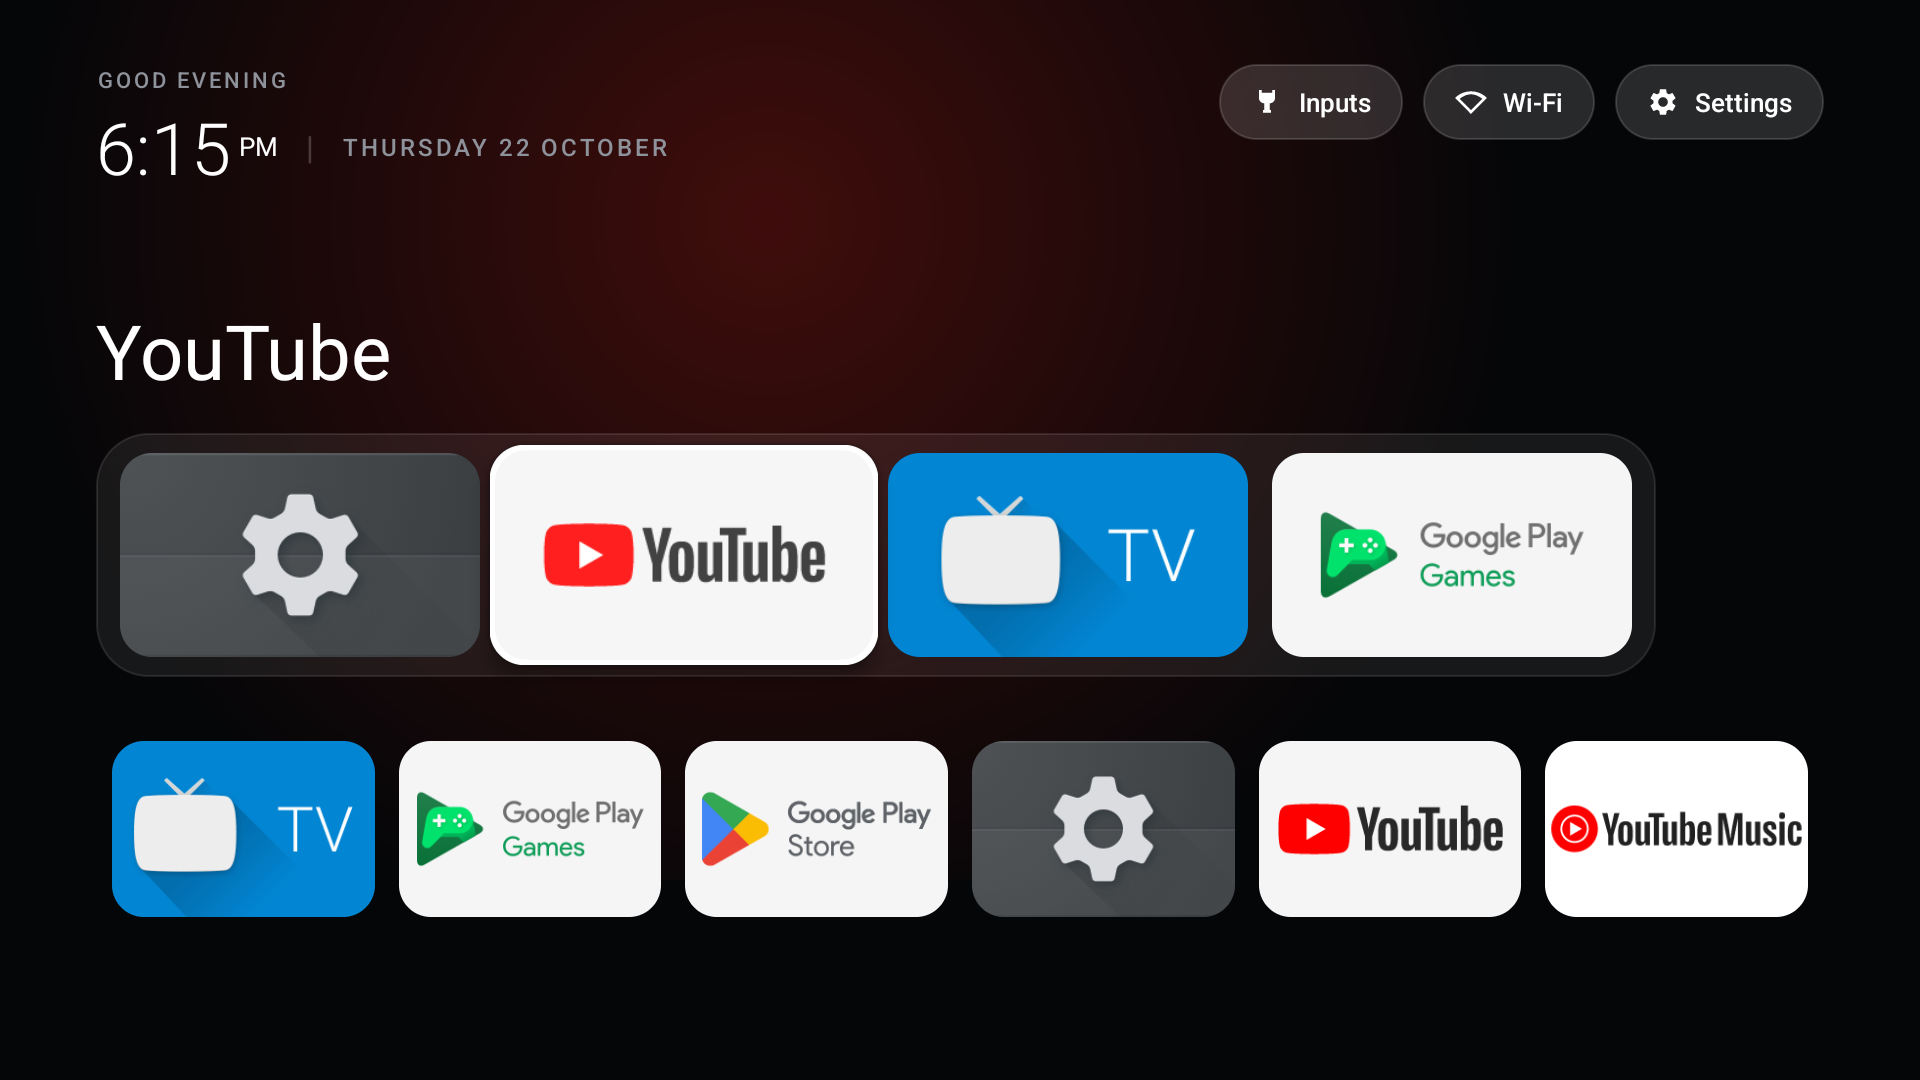
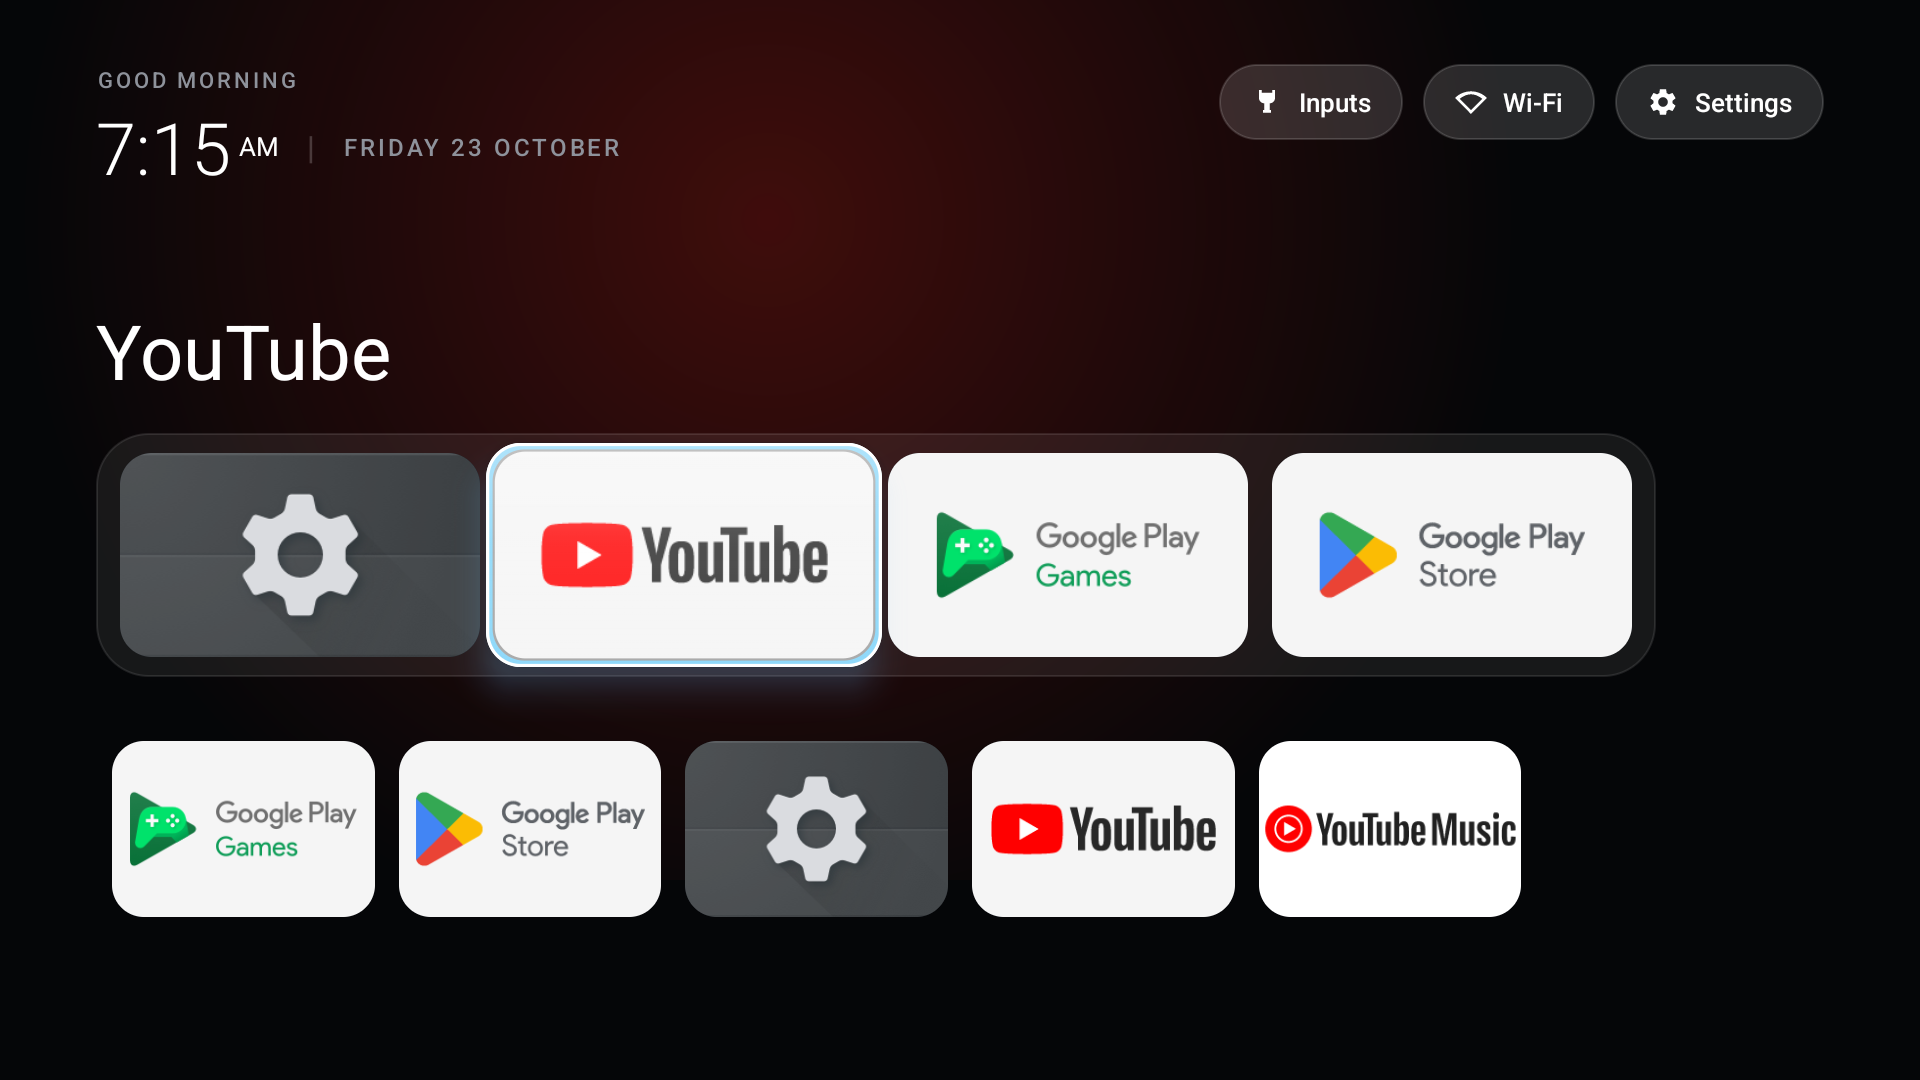
feat(ui): implement multi-layer floating glass highlight and spring focus physics (v0.2.1)

diff --git a/galvis/app/src/main/java/com/galvis/launcher/ui/FocusScaleHelper.kt b/galvis/app/src/main/java/com/galvis/launcher/ui/FocusScaleHelper.kt
@@ -1,17 +1,21 @@
 package com.galvis.launcher.ui
 
+import android.graphics.Color
+import android.os.Build
 import android.view.View
 import android.view.animation.DecelerateInterpolator
+import android.view.animation.OvershootInterpolator
 
 object FocusScaleHelper {
 
-    private val interpolator = DecelerateInterpolator(1.5f)
-    private const val ANIMATION_DURATION_MS = 140L
-    private const val FOCUSED_SCALE = 1.08f
+    private val springInterpolator = OvershootInterpolator(1.35f)
+    private val exitInterpolator = DecelerateInterpolator(1.5f)
+    private const val ANIMATION_DURATION_MS = 160L
+    private const val FOCUSED_SCALE = 1.10f
     private const val UNFOCUSED_SCALE = 1.0f
 
     /**
-     * Attaches smooth hardware-accelerated scaling and elevation to any TV tile on focus change.
+     * Attaches fluid hardware-accelerated spring physics and glowing elevation on focus change.
      */
     fun attachFocusAnimation(
         view: View,
@@ -19,7 +23,18 @@ object FocusScaleHelper {
     ) {
         view.setOnFocusChangeListener { v, hasFocus ->
             val targetScale = if (hasFocus) FOCUSED_SCALE else UNFOCUSED_SCALE
-            val targetElevation = if (hasFocus) 12f else 0f
+            val targetElevation = if (hasFocus) 20f else 0f
+            val interpolator = if (hasFocus) springInterpolator else exitInterpolator
+
+            if (Build.VERSION.SDK_INT >= Build.VERSION_CODES.P) {
+                if (hasFocus) {
+                    v.outlineSpotShadowColor = Color.parseColor("#B364B5F6")
+                    v.outlineAmbientShadowColor = Color.parseColor("#80000000")
+                } else {
+                    v.outlineSpotShadowColor = Color.TRANSPARENT
+                    v.outlineAmbientShadowColor = Color.TRANSPARENT
+                }
+            }
 
             v.animate()
                 .scaleX(targetScale)

diff --git a/CHANGELOG.md b/CHANGELOG.md
@@ -7,6 +7,21 @@ and this project adheres to [Semantic Versioning](https://semver.org/spec/v2.0.0
 
 ---
 
+## [0.2.1] - 2026-10-23
+
+### Added
+- **Multi-Layer Floating Glass Highlight**:
+  - Engineered a 4-layer composite highlight in `bg_tile_focus_rim.xml` matching CleanYourTV and Apple TV tvOS.
+  - Layer 1: Contrast drop shadow perimeter ensuring crisp edge separation on pure white cards (e.g. YouTube).
+  - Layer 2: Radiant ice-blue luminous glass bezel (`#F080D8FF`).
+  - Layer 3: Crisp diamond-white core outline (`#FFFFFFFF`).
+  - Layer 4: Specular glass glare gradient simulating polished curved glass sheen across the top 45% of the focused card.
+- **Physical Spring D-Pad Physics**:
+  - Upgraded `FocusScaleHelper.kt` to use `OvershootInterpolator(1.35f)` with 160ms timing for that signature Apple TV physical spring bounce.
+  - Added hardware-accelerated luminous cyan spot shadow elevation (`outlineSpotShadowColor = #B364B5F6`, `translationZ = 20f`) on API 28+ devices.
+
+---
+
 ## [0.2.0] - 2026-10-23
 
 ### Added
